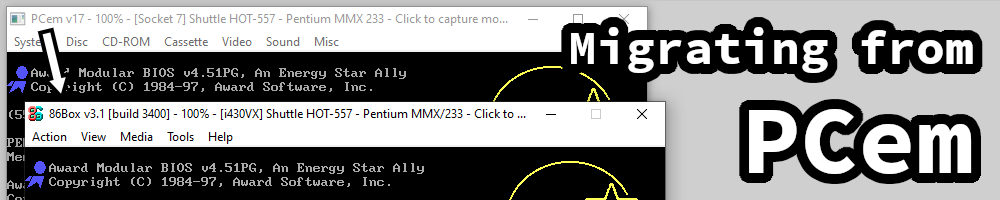
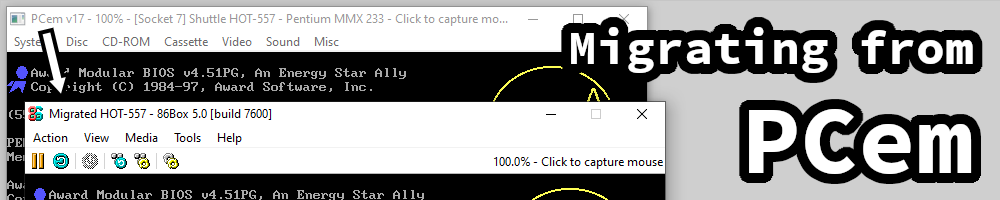
Big migration guide update for v5.0

Changed region(s): [[0.0, 0.66, 0.682, 1.0], [0.031, 0.54, 0.527, 0.6]]

diff --git a/_posts/2022-01-07-pcem-migration-guide.md b/_posts/2022-01-07-pcem-migration-guide.md
@@ -20,7 +20,7 @@ One aspect commonly used to compare PCem and 86Box is the emulation performance.
 
 PCem v15 introduced a rewritten dynamic recompiler, which was primarily aimed at improving emulation performance in games; however, it also caused minor to severe performance regressions in other applications. One example of a regressed application is the (ironically related to a game) **MapEdit** level editor for Wolfenstein 3D, which we measured to lose as much as **85%** emulation speed with the new recompiler on a relatively sensible Pentium 75 setup.
 
-On **x86 host systems**, 86Box uses the **previous recompiler** from PCem versions before v15, with optimizations performed by us, as we have determined that the new one causes too many regressions to be adopted as a sensible default. There is a way for you to try out the new recompiler on 86Box, though: go to our [Jenkins](https://ci.86box.net/job/86Box/), find whatever build number you're using ([here's 6130](https://ci.86box.net/job/86Box/6130/artifact/), the release build for v4.2.1) and download the **New Recompiler (beta)** variant that's right for your host operating system.
+On **x86 host systems**, 86Box uses the **previous recompiler** from PCem versions before v15, with optimizations performed by us, as we have determined that the new one causes too many regressions to be adopted as a sensible default. There is a way for you to try out the new recompiler on 86Box, though: go to our [experimental builds page](/builds), find whatever build number you're using ([here's 7600](/builds#7600), the release build for v5.0) and download the **New Recompiler (beta)** variant that's right for your host operating system.
 
 On the other hand, **ARM host systems** always use the new recompiler, as the old one has not received an ARM version. It's worth noting both recompiler variants for macOS are **universal binaries**; the old recompiler one automatically switches over to the new recompiler when running on Apple Silicon.
 
@@ -28,14 +28,14 @@ On the other hand, **ARM host systems** always use the new recompiler, as the ol
 
 PCem's emulation of some core system components, such as the Programmable Interval Timer (PIT), takes a few shortcuts to improve performance. These shortcuts are perfectly fine for games, which is what PCem targets; although, they have caused issues with the software preservation side of things, as we found out with **Microsoft Word 1.0**, the **MR BIOS** and other old pieces of software.
 
-In addition to taking fewer shortcuts, 86Box also tries to follow the specifications of these components, rather than implement the minimum viable feature set, which is - once again - good enough for games, but not good enough for some other applications. Generally speaking, the more accurate a component's emulation is made, the more host CPU horsepower it will require. There are certain limits to what's attainable to emulate (as an example, we don't do CPU caches, as that is too complex [even for other non-PC emulators](https://dolphin-emu.org/blog/2017/02/01/dolphin-progress-report-january-2017/#50-2204-hack-to-protect-lower-mem1-from-malicious-game-code-by-booto "Our issues involved cache test errors on some BIOSes")\), but we try to follow what's possible.
+In addition to taking fewer shortcuts, 86Box also tries to follow the specifications of these components, rather than implement the minimum viable feature set, which is - once again - good enough for games, but not good enough for some other applications. Generally speaking, the more accurate a component's emulation is made, the more host CPU horsepower it will require. There are certain limits to what's attainable to emulate (as an example, we don't handle CPU cache, as that is too complex [even for other non-PC emulators](https://dolphin-emu.org/blog/2017/02/01/dolphin-progress-report-january-2017/#50-2204-hack-to-protect-lower-mem1-from-malicious-game-code-by-booto "Our issues involved BIOS cache test errors on some machines")\), but we try to follow what's possible.
 {: #cache}
 
 ---
 
-## Bring your own manager
+## Machine manager
 
-PCem has a built-in manager, which allows you to keep and run multiple emulated machine configurations from one place. 86Box does not have such a manager, though one is planned for the future. For now, you can use [**Avalonia 86**](https://github.com/notBald/Avalonia86) or other manager applications developed by the community.
+After years of requests, 86Box v5.0 finally brings a preview for a built-in manager, which allows you to keep and run multiple emulated machine configurations from one place. As with PCem, open 86Box directly to start the manager. You can also use [**Avalonia 86**](https://github.com/notBald/Avalonia86) or other manager applications developed by the community.
 
 There is **no migration path** for configuration files, as the format is too different. You will have to reconfigure your emulated machine on 86Box, but that's a nice opportunity to double-check your configuration while also checking out our features. More on the differences between PCem and 86Box in the configuration department later.
 
@@ -73,7 +73,7 @@ There is **no migration path** for configuration files, as the format is too dif
 | [8086] Amstrad PC1640 | 8086:<br />[8086] Amstrad PC1640 | |
 | [8086] Amstrad PC2086 | 8086:<br />[8086] Amstrad PC2086 | |
 | [8086] Amstrad PC3086 | 8086:<br />[8086] Amstrad PC3086 | |
-| [8086] Amstrad PC5086 | - | Not implemented yet. |
+| [8086] Amstrad PC5086 | 8086:<br />[8086] Amstrad PC5086 | |
 | [8086] Amstrad PPC512/640 | 8086:<br />[8086] Amstrad PPC512/640 | |
 | [8086] Compaq Deskpro | 8086:<br />[8086] Compaq Deskpro | |
 | [8086] Olivetti M24 | 8086:<br />[8086] Olivetti M21/24/24SP | |
@@ -102,7 +102,7 @@ There is **no migration path** for configuration files, as the format is too dif
 | [286] Samsung SPC-4620P | 80286:<br />[SCAT] Samsung SPC-4620P | |
 | [286] Toshiba T3100e | 80286:<br />[ISA] Toshiba T3100e | |
 | [286] Trigem 286M | 80286:<br />[GC103] TriGem 286M | |
-| [286] Tulip AT Compact | - | Not implemented yet. |
+| [286] Tulip AT Compact | 80286:<br />[C&T PC/AT] Tulip AT Compact | |
 | [386SX] Acer 386SX25/N | i386SX:<br />[ALi M1409] Acer 100T | |
 | [386SX] AMA-932J | i386SX:<br />[HT18] AMA-932J | |
 | [386SX] AMI 386SX clone | - | Removed due to bugs and a lack of identification. |
@@ -116,11 +116,11 @@ There is **no migration path** for configuration files, as the format is too dif
 | [386SX] Packard Bell Legend 300SX | i386SX:<br />[ACC 2036] Packard Bell Legend 300SX |  |
 | [386SX] Samsung SPC-6033P | i386SX:<br />[SCAMP] Samsung SPC-6033P | |
 | [386DX] AMI 386DX clone | i386DX/i486:<br />[OPTi 495SX] DataExpert SX495 | 486 CPUs are also supported, like on the real motherboard. |
-| [386DX] Compaq Deskpro 386 | i386DX:<br />Not implemented yet. | |
+| [386DX] Compaq Deskpro 386 | i386DX:<br />[ISA] Compaq Deskpro 386 | |
 | [386DX] ECS 386/32 | i386DX:<br />[C&T 386] ECS 386/32 | |
 | [386DX] IBM PS/2 Model 70 (type 3) | i386DX: [MCA] IBM PS/2<br />model 70 (type 3) | |
 | [386DX] IBM PS/2 Model 80 | i386DX: [MCA] IBM PS/2<br />model 80 (type 2) | The Type 3 is also available. |
-| [386DX] MR 386DX clone | i386DX/i486: [OPTi 495]<br />DataExpert SX495 (MR BIOS) | 486 CPUs are also supported, like on the real motherboard. |
+| [386DX] MR 386DX clone | i386DX/i486: [OPTi 495SX]<br />DataExpert SX495 (MR BIOS) | 486 CPUs are also supported, like on the real motherboard. |
 | [386DX] Samsung SPC-6000A | i386DX:<br />[C&T 386] Samsung SPC-6000A | |
 | [486] AMI 486 clone | i486 (Socket 168 and 1):<br />[ALi M1429] Olystar LIL1429 | |
 | [486] AMI WinBIOS 486 | i486 (Socket 2):<br />[ALi M1429G] Kaimei SA-486 | |
@@ -134,12 +134,12 @@ There is **no migration path** for configuration files, as the format is too dif
 | [Socket 5] Intel Advanced/EV | Socket 7 (Single Voltage):<br />[i430FX] Intel Advanced/EV | |
 | [Socket 5] Intel Advanced/ZP | Socket 5:<br />[i430FX] Intel Advanced/ZP | |
 | [Socket 5] Itautec Infoway Multimidia | - | OEM version of the Intel Advanced/ZP above, with an undumped BIOS. |
-| [Socket 5] Packard Bell PB570 | - | Inaccurate spec sheets (430NX vs. 430FX) being investigated as of writing. |
+| [Socket 5] Packard Bell PB570 | - | Inaccurate spec sheets being investigated as of writing. |
 | [Socket 7] ASUS P/I-P55TVP4 | Socket 7 (Dual Voltage):<br />[i430VX] ASUS P/I-P55TVP4 | See [PIIX southbridge mismatch](#piix-southbridge-mismatch). |
 | [Socket 7] ASUS P/I-P55T2P4 | Socket 7 (Dual Voltage):<br />[i430HX] ASUS P/I-P55T2P4 | See [PIIX southbridge mismatch](#piix-southbridge-mismatch). |
 | [Socket 7] Epox P55-VA | Socket 7 (Dual Voltage):<br />[i430VX] Epox P55-VA | See [PIIX southbridge mismatch](#piix-southbridge-mismatch). |
 | [Socket 7] Shuttle HOT-557 | Socket 7 (Dual Voltage):<br />[i430VX] Shuttle HOT-557 | See [PIIX southbridge mismatch](#piix-southbridge-mismatch). |
-| [Super 7] FIC VA-503+ | Super Socket 7:<br />[VIA MVP3] FIC VA-503+ | Not to be confused with the FIC VA-503**A**, which has a different southbridge. |
+| [Super 7] FIC VA-503+ | Super Socket 7:<br />[VIA MVP3] FIC VA-503+ | Not to be confused with the FIC VA-503**A**, which is a very different board. |
 | [Socket 8] Intel VS440FX | Socket 8:<br />[i440FX] Intel VS440FX | See [PIIX southbridge mismatch](#piix-southbridge-mismatch). |
 | [Slot 1] Gigabyte GA-686BX | Slot 1:<br />[i440BX] Gigabyte GA-686BX | |
 
@@ -182,8 +182,8 @@ The 86Box settings interface is designed to be easy to navigate, though you shou
 
 ### Sound
 
-* There are regular and PnP variants of the **Sound Blaster 16** and **AWE32** cards. You should stick to the regular variants with manual settings, unless you feel like messing with ISA Plug and ~~Pray~~ Play.
-* The **MIDI out device** option is sound card independent; it's located right below the sound card selection box. 86Box also supports MIDI input.
+* There are regular and PnP variants of the **Sound Blaster 16** and **AWE32** cards. When migrating an existing machine, sticking to the regular variants with manual settings is recommended.
+* The **MIDI out device** option is sound card independent; it's located right below the sound card selection boxes. 86Box also supports MIDI input.
 * The **OPL emulator** option is named **FM synth driver**, with a selection of NukedOPL for accuracy or YMFM for performance.
 * The **LPT device** option is in the **Ports (COM & LPT)** page, as 86Box supports more devices (such as printers) connected to up to 4 parallel ports.
 
@@ -193,17 +193,17 @@ The 86Box settings interface is designed to be easy to navigate, though you shou
   * Floppy drives in the **Floppy & CD-ROM drives** page;
   * Hard drives in the **Hard disks** page;
   * CD-ROM drives in the **Floppy & CD-ROM drives** page;
-  * Iomega Zip drives (86Box adds Zip 250 support) in the **Other removable devices** page;
+  * Iomega Zip drives (86Box adds Zip 250 support) as removable disks in the **Other removable devices** page;
   * 86Box adds magneto-optical drives also in the **Other removable devices** page.
 * IDE drives are represented by a channel:device index, instead of a drive index or location like "Primary Master". See [our documentation](https://86box.readthedocs.io/en/v5.0/settings/hdd.html#adding-a-new-disk) for more information.
-  * IDE channels 2 and 3 correspond to [tertiary and quaternary IDE controllers](https://86box.readthedocs.io/en/v5.0/hardware/ideterqua.html), which can be added through the **Storage controllers** page. PnP Sound Blaster cards also claim the quaternary channel for their integrated IDE.
+  * IDE channels 2 and 3 correspond to [tertiary and quaternary IDE controllers](https://86box.readthedocs.io/en/v5.0/hardware/ideterqua.html), which can be added through the **Storage controllers** page. PnP Sound Blaster cards with IDE capability also claim the quaternary channel.
 * 86Box supports using IDE and SCSI simultaneously. IDE is automatically enabled on machines with it, and up to 4 SCSI controllers can be installed through the **Storage controllers** page.
 * The **CD Model** and **CD Speed** options are configurable for each individual drive in the **Floppy & CD-ROM drives** page, as **Type** and **Speed** respectively.
 
 ### Input
 
 * 86Box can emulate serial and PS/2 mice with **three buttons** or a **scroll wheel**. This functionality can be enabled through the **Configure** button next to the mouse selection box.
-* The **4-axis 4-button** joystick allows for a more modern control scheme (if supported by the emulated software), which takes advantage of all 4 axes and 4 buttons that the game port provides.
+* The **4-axis 4-button** joystick allows for a more modern control scheme (if supported by the emulated software), which takes advantage of all 4 axes and 4 buttons that the game port provides. More joystick models are also available.
 
 ### Network
 
@@ -216,7 +216,7 @@ The 86Box settings interface is designed to be easy to navigate, though you shou
 
 ## User interface
 
-The 86Box user interface should look familiar to PCem users, with two main differences: the menu layout and the status bar. The [menu bar](https://86box.readthedocs.io/en/v5.0/usage/menubar.html) had some options moved to the **Settings** window, and media controls moved to the **Media menu**. The [status bar](https://86box.readthedocs.io/en/v5.0/usage/statusbar.html) contains activity indicators, with the same controls as the Media menu also being accessible by clicking the icons. While we don't have the **Machine** window, most of what it provides on PCem is accessible through the title bar, menu bar and status bar on 86Box.
+The 86Box user interface has a lot more going on. The [menu bar](https://86box.readthedocs.io/en/v5.0/usage/menubar.html) contains some options, while others are in the **Settings** window, and media controls are found in the **Media menu**. The [toolbar](https://86box.readthedocs.io/en/v5.0/usage/toolbar.html) contains shortcuts for common actions and the emulation speed indicator. The [status bar](https://86box.readthedocs.io/en/v5.0/usage/statusbar.html) contains indicators for activity, keyboard lock lights and display refresh rate, with the same controls as the Media menu also being accessible by clicking the media icons. While we don't have the **Machine** window, a lot of what it provides is accessible through other means on 86Box.
 
 {% include image.html url="/assets/images/pcem-migration/media.png" description="Media controls through the Media menu and status bar." %}
 
@@ -226,17 +226,17 @@ As of 86Box v5.0, the key combination to release mouse capture is the same **Ctr
 
 ## Media
 
-86Box is quite a bit different in the media department as well. More disk image formats are supported, including our own [**86F**](https://86box.readthedocs.io/en/v5.0/dev/formats/86f.html) format for floppy bitstream images. Unlimited hard drives (the controllers are the limit) and up to 4 removable drives of **each type** (floppy, CD-ROM, Zip, MO) can be installed, with each removable drive getting its own entry on the **Media menu** and **status bar**.
+86Box is quite a bit different in the media department as well. More disk image formats are supported, including our own [**86F**](https://86box.readthedocs.io/en/v5.0/dev/formats/86f.html) format for floppy bitstream images. Unlimited hard drives (the controllers are the limit) and up to 4 removable drives of **each type** (floppy, CD-ROM, removable disk, MO) can be installed, with each removable drive getting its own entry on the **Media menu** and **status bar**.
 
 ### Limited host CD-ROM passthrough
 
 86Box currently supports the use of a host CD-ROM drive on **Windows hosts only**, with more platforms coming soon.
 
-For other platforms, we recommend ripping your discs to `.cue` + `.bin`, as that format preserves the sector mode, audio tracks and other information that `.iso` doesn't. 86Box also supports `.cue` images with audio tracks in `.wav`, `.mp3` and other encapsulated or compressed formats.
+For other platforms, we recommend ripping your discs to `.cue` + `.bin` or **unencrypted** `.mds` + `.mdf`, as those formats preserve the sector mode, audio tracks and other information that `.iso` doesn't. 86Box also supports `.cue` images with audio tracks in `.wav`, `.mp3` and other encapsulated or compressed formats.
 
-### Zip 250 and MO
+### Removable disks and MO
 
-86Box supports **Iomega Zip 250** disks, which require Zip 250 support to be enabled at a drive level in the **Other removable devices** settings page. **Magneto-optical** (MO) is also supported, as another removable medium which provides more storage than Zip disks: up to 1.3 GB per cartridge.
+On top of the Iomega Zip 100, 86Box supports **Zip 250** and **generic removable disks**, which can be set as removable disk drive models in the **Other removable devices** settings page. **Magneto-optical** (MO) is also supported, as another removable medium which provides more storage than Zip disks: up to 1.3 GB per cartridge.
 
 ### Cassette formats
 
